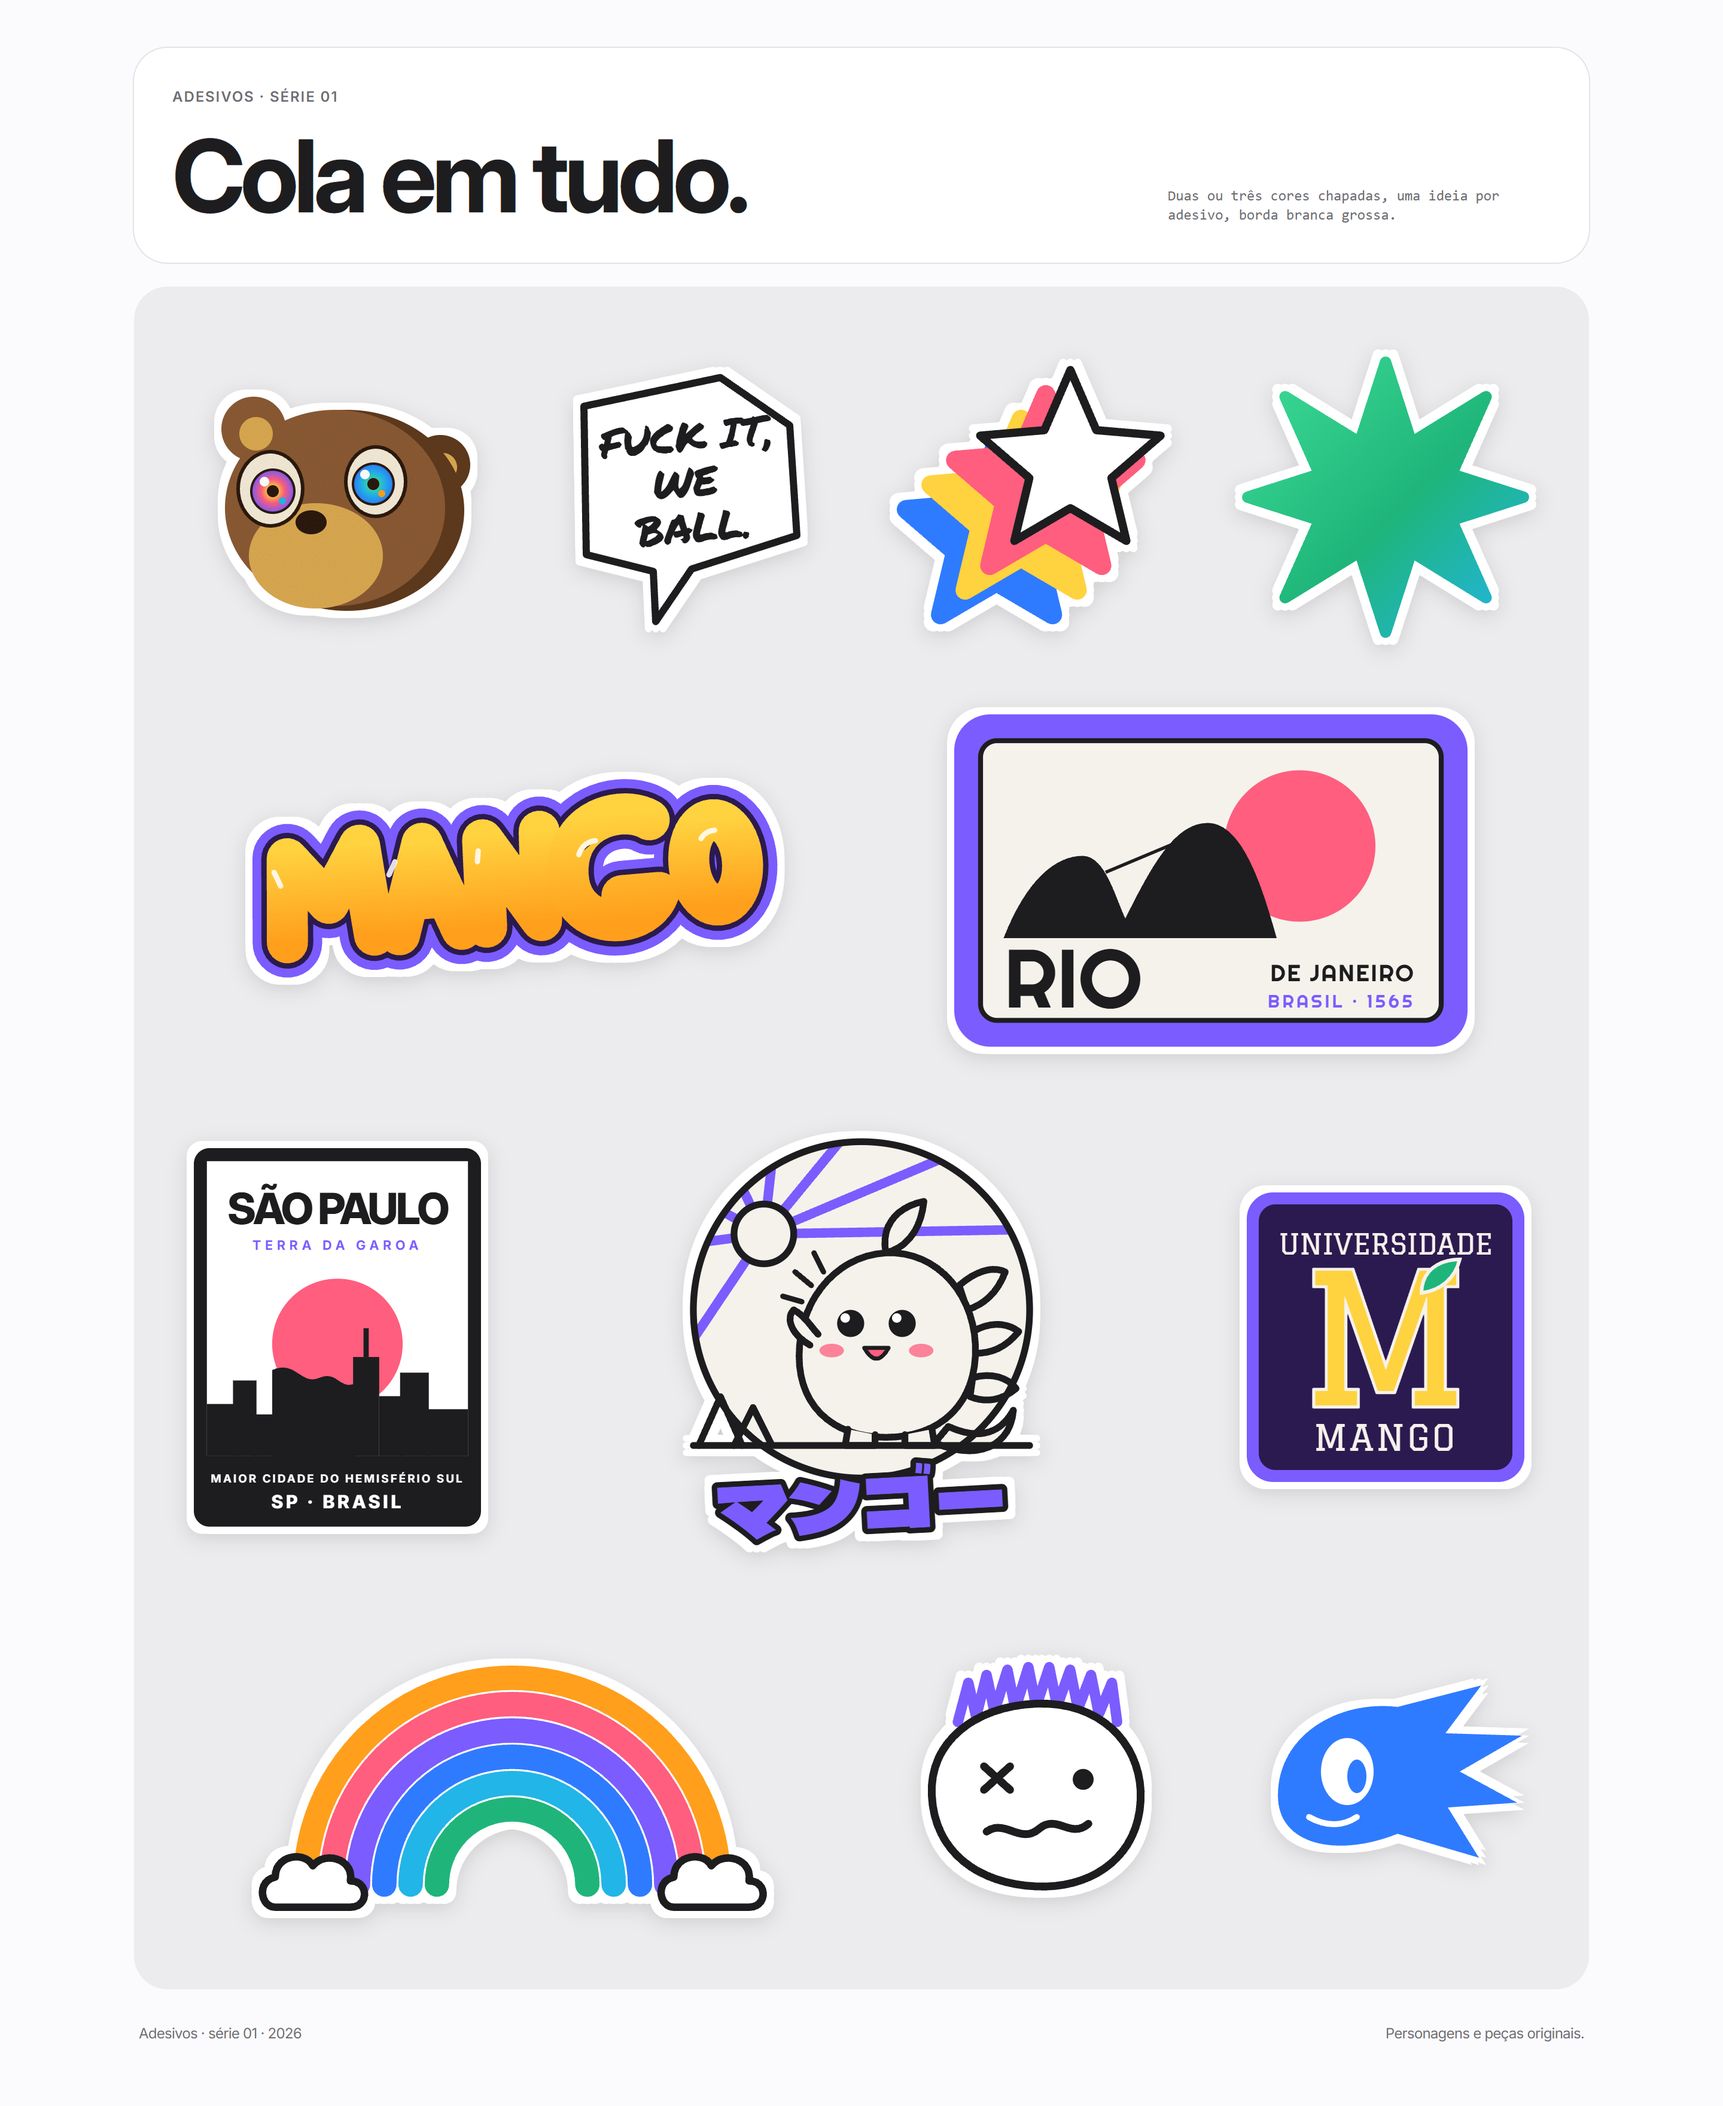
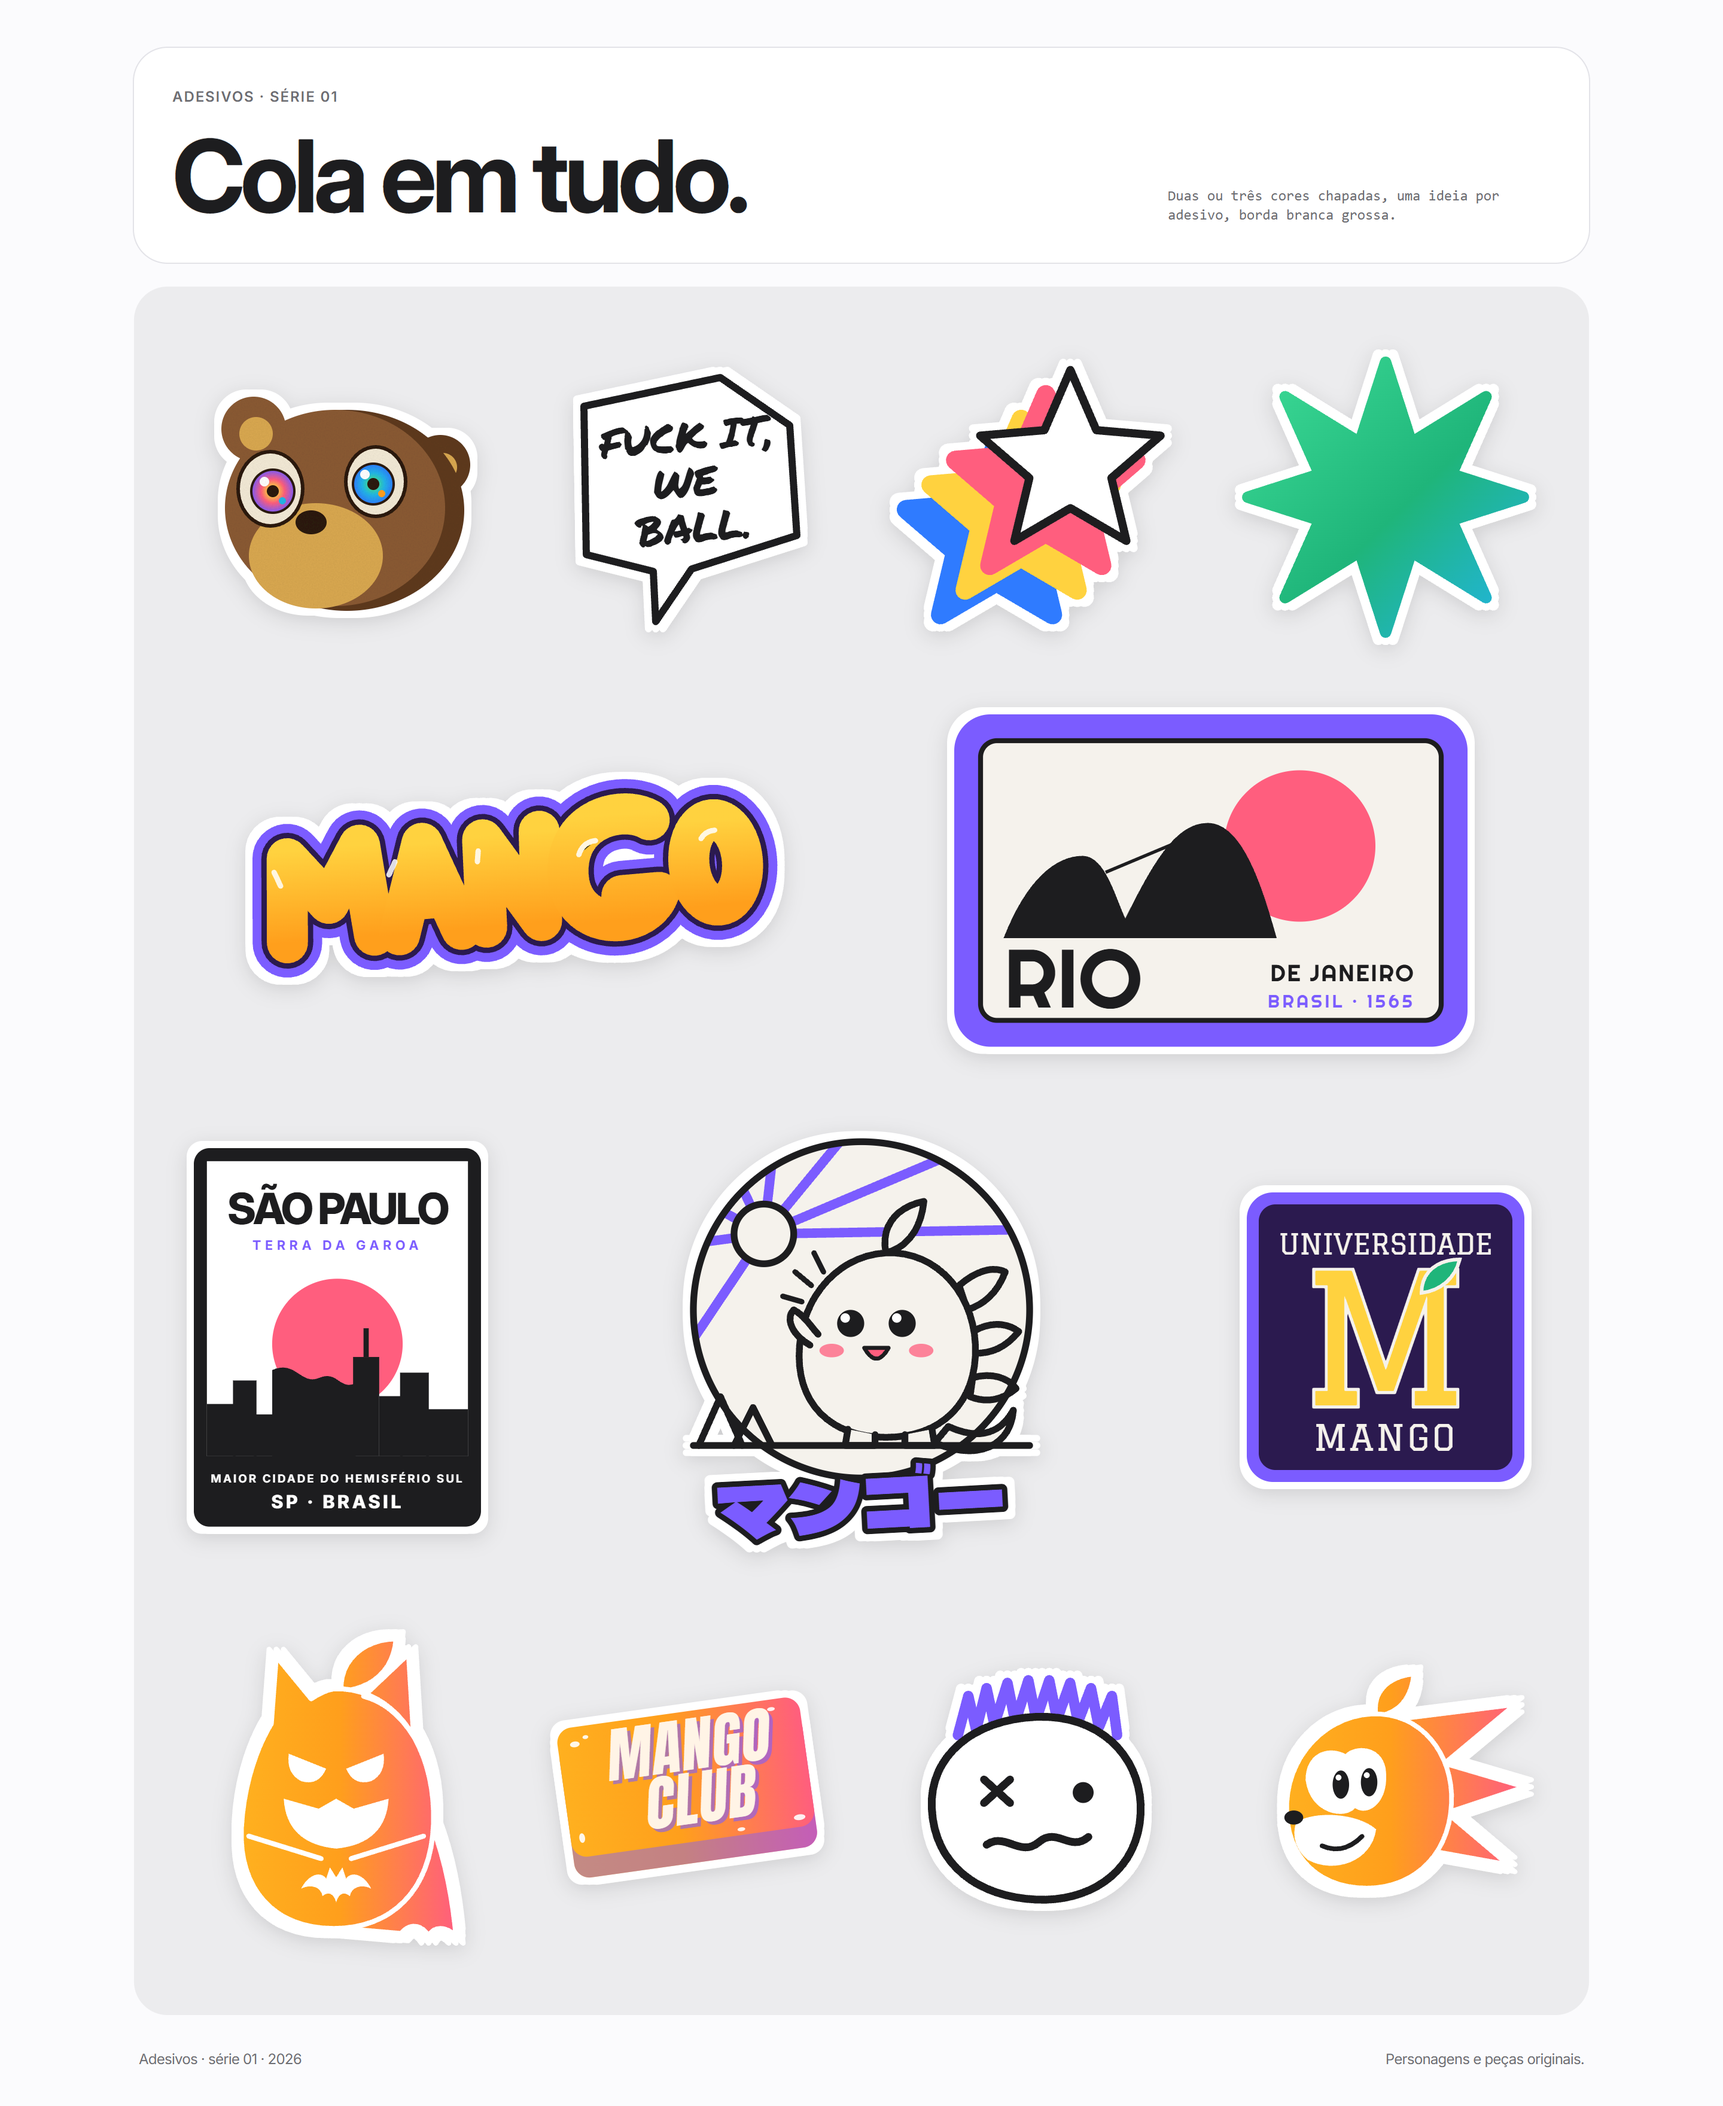
feat(marca): adesivos v5 — família manga→rosa: batmango, manga veloz e Mango Club

Changed region(s): [[0.125, 0.7812, 0.5, 0.9375], [0.7188, 0.7812, 0.875, 0.9062], [0.5312, 0.7812, 0.6875, 0.9062]]

diff --git a/escolhas/marca/adesivos.html b/escolhas/marca/adesivos.html
@@ -6,7 +6,7 @@
 <title>Mango · Adesivos</title>
 <link rel="icon" href="/mango.svg">
 <link rel="preconnect" href="https://fonts.googleapis.com">
-<link rel="stylesheet" href="https://fonts.googleapis.com/css2?family=Inter:opsz,wght@14..32,300..800&family=Permanent+Marker&family=Righteous&family=Dela+Gothic+One&family=Graduate&display=swap">
+<link rel="stylesheet" href="https://fonts.googleapis.com/css2?family=Inter:opsz,wght@14..32,300..800&family=Permanent+Marker&family=Righteous&family=Dela+Gothic+One&family=Graduate&family=Anton&display=swap">
 <link rel="stylesheet" href="/src/marca/marca.css">
 <link rel="stylesheet" href="./temas.css">
 <link rel="stylesheet" href="./base.css">
@@ -31,6 +31,10 @@
     <!-- íris do urso: só cores da marca -->
     <radialGradient id="irisA"><stop offset=".2" stop-color="#ffd23f"/><stop offset=".55" stop-color="#ff5e7e"/><stop offset="1" stop-color="#7b5cff"/></radialGradient>
     <radialGradient id="irisB"><stop offset=".2" stop-color="#3ddc97"/><stop offset=".55" stop-color="#22b5e8"/><stop offset="1" stop-color="#2f7bff"/></radialGradient>
+    <!-- degradê da família de heróis (batmango, veloz, club): manga → rosa, contínuo pelo adesivo inteiro -->
+    <linearGradient id="gBat" gradientUnits="userSpaceOnUse" x1="40" y1="0" x2="210" y2="0"><stop offset="0" stop-color="#ffb01f"/><stop offset=".45" stop-color="#ff9f1c"/><stop offset="1" stop-color="#ff5e7e"/></linearGradient>
+    <linearGradient id="gVel" gradientUnits="userSpaceOnUse" x1="36" y1="0" x2="236" y2="0"><stop offset="0" stop-color="#ffb01f"/><stop offset=".45" stop-color="#ff9f1c"/><stop offset="1" stop-color="#ff5e7e"/></linearGradient>
+    <linearGradient id="gClub" x1="0" y1="0" x2="1" y2="0"><stop offset="0" stop-color="#ffb01f"/><stop offset=".45" stop-color="#ff9f1c"/><stop offset="1" stop-color="#ff5e7e"/></linearGradient>
     <linearGradient id="miolo" x1="0" y1="0" x2="0" y2="1"><stop offset="0" stop-color="#ffd23f"/><stop offset="1" stop-color="#ff9f1c"/></linearGradient>
     <filter id="papel" x="0" y="0" width="100%" height="100%">
       <feTurbulence type="fractalNoise" baseFrequency=".9" numOctaves="2" seed="4" result="n"/>
@@ -176,21 +180,34 @@
       <text x="120" y="220" text-anchor="middle" font-family="Graduate" font-size="30" letter-spacing="2" fill="#f5f2ec">MANGO</text>
     </svg>
 
-    <!-- Arco-íris anos 70 com as 6 cores -->
-    <div class="largo"><svg class="ad" viewBox="0 0 280 160" role="img" aria-label="Arco-íris com as seis cores">
-      <g fill="none" stroke-width="13" stroke-linecap="round">
-        <path d="M30 140 A110 110 0 0 1 250 140" stroke="#ff9f1c"/>
-        <path d="M44 140 A96 96 0 0 1 236 140" stroke="#ff5e7e"/>
-        <path d="M58 140 A82 82 0 0 1 222 140" stroke="#7b5cff"/>
-        <path d="M72 140 A68 68 0 0 1 208 140" stroke="#2f7bff"/>
-        <path d="M86 140 A54 54 0 0 1 194 140" stroke="#22b5e8"/>
-        <path d="M100 140 A40 40 0 0 1 180 140" stroke="#1fb57a"/>
+    <!-- Batmango: herói de manga, degradê contínuo, detalhes vazados em branco -->
+    <svg class="ad" viewBox="0 0 230 262" role="img" aria-label="Manga herói com máscara e capa">
+      <g fill="url(#gBat)" stroke="#fff" stroke-width="4" stroke-linejoin="round">
+        <path d="M168 120 C196 160 206 210 210 252 C202 244 192 244 188 252 C182 242 172 242 166 250 L120 246 Z"/>
+        <path d="M118 56 C116 32 136 14 162 14 C160 40 142 54 118 56 Z"/>
+        <path d="M112 54 C160 52 194 100 192 162 C190 216 158 246 112 246 C64 246 36 214 38 166 C40 128 52 98 62 82 L66 28 L94 62 C100 58 106 55 112 54 Z M136 60 L172 26 L176 92 C166 76 152 64 136 60 Z"/>
       </g>
-      <g fill="#fff" stroke="#1d1d1f" stroke-width="4" stroke-linejoin="round">
-        <path d="M14 152 C6 152 4 138 14 136 C14 124 30 122 34 130 C40 122 56 126 54 138 C64 138 64 152 54 152 Z"/>
-        <path d="M226 152 C218 152 216 138 226 136 C226 124 242 122 246 130 C252 122 268 126 266 138 C276 138 276 152 266 152 Z"/>
+      <g fill="#fff">
+        <path d="M76 106 L106 118 Q100 132 86 128 Q74 122 76 106Z"/><path d="M152 106 L122 118 Q128 132 142 128 Q154 122 152 106Z"/>
+        <path d="M72 142 L100 150 L114 142 L128 150 L156 142 Q154 178 114 182 Q74 178 72 142 Z"/>
+        <path d="M86 214 C92 202 102 200 106 206 L109 197 L114 205 L119 197 L122 206 C126 200 136 202 142 214 C134 210 126 213 125 220 C120 216 116 218 114 225 C112 218 108 216 103 220 C102 213 94 210 86 214 Z"/>
       </g>
-    </svg></div>
+      <path d="M44 172 L102 190 M184 172 L126 190" stroke="#fff" stroke-width="4" stroke-linecap="round"/>
+    </svg>
+
+    <!-- MANGO CLUB: sabonete no mesmo degradê -->
+    <svg class="ad" viewBox="0 0 300 220" role="img" aria-label="Sabonete Mango Club">
+      <g transform="rotate(-8 150 110)">
+        <rect x="22" y="52" width="256" height="140" rx="16" fill="url(#gClub)"/>
+        <rect x="22" y="52" width="256" height="140" rx="16" fill="#7b5cff" opacity=".45"/>
+        <rect x="22" y="34" width="256" height="136" rx="16" fill="url(#gClub)"/>
+        <g fill="#fff" opacity=".9"><ellipse cx="40" cy="52" rx="5" ry="3"/><ellipse cx="52" cy="46" rx="3" ry="2"/><ellipse cx="34" cy="150" rx="3" ry="5"/><ellipse cx="262" cy="160" rx="6" ry="3"/><ellipse cx="200" cy="164" rx="4" ry="2"/><ellipse cx="248" cy="44" rx="4" ry="2"/></g>
+        <g font-family="Anton" font-size="62" letter-spacing="1" text-anchor="middle" transform="skewX(-10)">
+          <text x="175" y="99" fill="#7b5cff" opacity=".6">MANGO</text><text x="171" y="95" fill="#fff4e6">MANGO</text>
+          <text x="190" y="155" fill="#7b5cff" opacity=".6">CLUB</text><text x="186" y="151" fill="#fff4e6">CLUB</text>
+        </g>
+      </g>
+    </svg>
 
     <!-- Rabisco (ref rosto desenhado) -->
     <svg class="ad" viewBox="0 0 220 220" role="img" aria-label="Rosto rabiscado">
@@ -201,12 +218,19 @@
       <path d="M72 156 C86 146 98 166 112 154 C126 142 136 162 150 150" fill="none" stroke="#1d1d1f" stroke-width="6" stroke-linecap="round"/>
     </svg>
 
-    <!-- Veloz: silhueta de uma cor (ref Sonic) -->
-    <svg class="ad" viewBox="0 0 240 180" role="img" aria-label="Silhueta veloz">
-      <path d="M30 110 C30 60 80 30 130 36 L200 18 L170 58 L234 60 L182 90 L230 116 L172 120 L198 162 L130 142 C80 162 30 152 30 110 Z" fill="#2f7bff"/>
-      <ellipse cx="88" cy="90" rx="22" ry="28" fill="#fff"/>
-      <ellipse cx="96" cy="94" rx="8" ry="14" fill="#2f7bff"/>
-      <path d="M56 128 C70 136 84 136 96 128" fill="none" stroke="#fff" stroke-width="5" stroke-linecap="round"/>
+    <!-- Manga veloz: cabeça de manga com espinhos pra trás, olhos juntos -->
+    <svg class="ad" viewBox="0 0 244 196" role="img" aria-label="Manga veloz">
+      <g fill="url(#gVel)" stroke="#fff" stroke-width="4" stroke-linejoin="round">
+        <path d="M120 44 L232 30 L172 80 L240 100 L174 122 L226 166 L148 152 Z"/>
+        <path d="M114 40 C110 20 124 6 146 4 C144 26 132 38 114 40 Z"/>
+        <path d="M110 38 C152 36 180 72 178 114 C176 160 144 186 106 186 C64 186 36 158 38 114 C40 72 72 40 110 38 Z"/>
+      </g>
+      <path d="M54 94 C54 72 72 64 88 72 C96 64 118 64 122 84 C126 112 108 126 96 118 C88 128 58 124 54 94 Z" fill="#fff"/>
+      <ellipse cx="84" cy="98" rx="7" ry="12" fill="#1d1d1f"/><ellipse cx="108" cy="96" rx="7" ry="12" fill="#1d1d1f"/>
+      <circle cx="82" cy="92" r="2.5" fill="#fff"/><circle cx="106" cy="90" r="2.5" fill="#fff"/>
+      <path d="M46 130 C62 120 98 122 114 136 C110 164 78 174 56 162 C46 154 42 142 46 130 Z" fill="#fff"/>
+      <ellipse cx="44" cy="126" rx="8" ry="6" fill="#1d1d1f"/>
+      <path d="M68 150 Q86 158 102 142" fill="none" stroke="#1d1d1f" stroke-width="4" stroke-linecap="round"/>
     </svg>
   </section>
 
